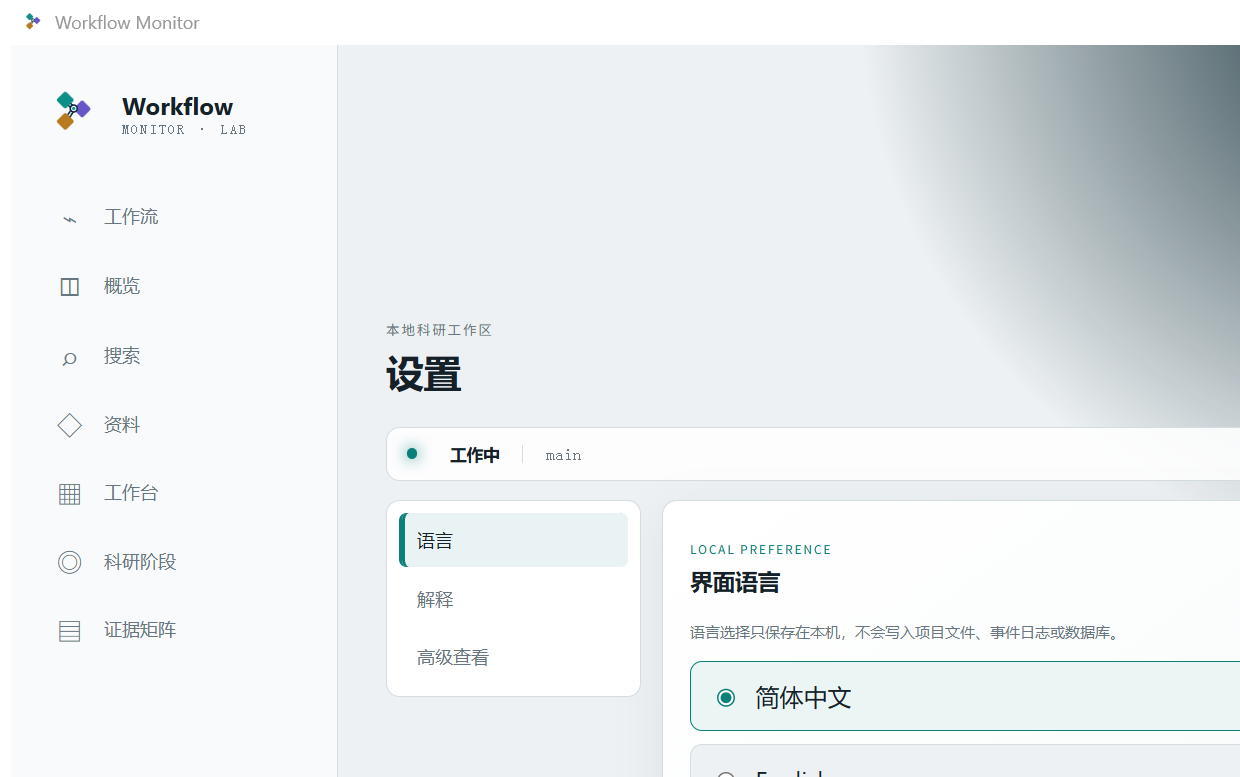
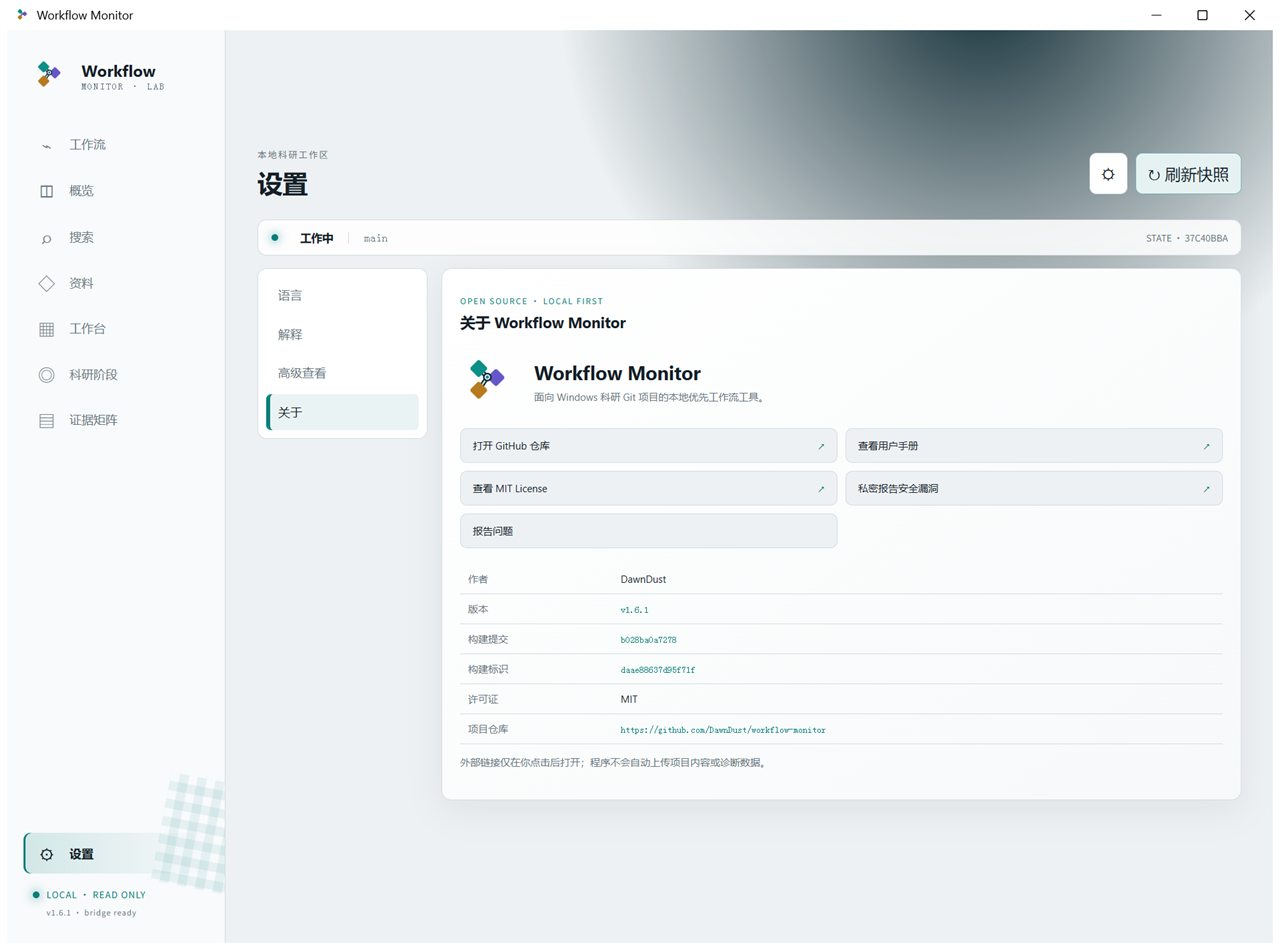
Add About page and prepare v1.6.1
Adds bilingual product identity, support links, version/build details, documentation, screenshot, and v1.6.1 release preparation.

diff --git a/project_hooks/ui/web/assets/app.js b/project_hooks/ui/web/assets/app.js
@@ -7,7 +7,8 @@ const pages = [
   ["research-stages","◎","科研阶段","Research stages"],
   ["evidence-matrix","▤","证据矩阵","Evidence matrix"],
 ];
-const state = {page:"overview",settingsSection:"language",language:loadLanguage(),snapshot:null,token:null,draftQuery:"",committedQuery:"",selectedKind:"all",searchPage:1,selectedResourceKind:null,resourcePage:1,selectedWorkbenchKind:"all",selectedWorkbenchPurposes:new Set(),selectedWorkbenchIds:new Set(),eventPage:1,searchComposing:false,pendingSearchRender:false,glossaryOpen:new Set(),advancedOpen:new Set(),stageOpen:new Set(),stageExpansionInitialized:false,records:new Map()};
+const state = {page:"overview",settingsSection:"language",language:loadLanguage(),snapshot:null,token:null,runtime:{version:"",build_identity:{}},draftQuery:"",committedQuery:"",selectedKind:"all",searchPage:1,selectedResourceKind:null,resourcePage:1,selectedWorkbenchKind:"all",selectedWorkbenchPurposes:new Set(),selectedWorkbenchIds:new Set(),eventPage:1,searchComposing:false,pendingSearchRender:false,glossaryOpen:new Set(),advancedOpen:new Set(),stageOpen:new Set(),stageExpansionInitialized:false,records:new Map()};
+const productLinks={repository:"https://github.com/DawnDust/workflow-monitor",manual:"https://dawndust.github.io/workflow-monitor/",license:"https://github.com/DawnDust/workflow-monitor/blob/main/LICENSE",security:"https://github.com/DawnDust/workflow-monitor/security/advisories/new"};
 const $ = q => document.querySelector(q), bridge = () => window.pywebview?.api;
 const l = (zh,en) => state.language === "en" ? en : zh;
 const pageLabel = page => state.language === "en" ? page[3] : page[2];
@@ -63,7 +64,9 @@ function fillDisclosure(node,s,force=false){const id=node.dataset.lazy,body=node
 const advancedDependencies={runtime:new Set(["branch","health","classification","active_task_warning","software_delivery"]),actions:new Set(["action_matrix"]),diagnostics:new Set(["diagnostics"]),events:new Set(["events"])};
 function updateAdvanced(s,changed=[],force=false){const issues=s.diagnostics?.issues||s.diagnostics?.active||[],counts={runtime:l("按需","On demand"),actions:`${(s.action_matrix?.actions||[]).length} ${l("项","items")}`,diagnostics:`${issues.length} ${l("个问题","issues")}`,events:`${(s.events||[]).length} ${l("条","records")}`},scrollY=window.scrollY;document.querySelectorAll("details[data-lazy]").forEach(node=>{node.querySelector("summary em").textContent=counts[node.dataset.lazy];const affected=force||changed.some(key=>advancedDependencies[node.dataset.lazy]?.has(key));if(node.open&&affected)fillDisclosure(node,s,true);});requestAnimationFrame(()=>window.scrollTo(0,scrollY));}
 function languageSettings(){return panel(l("界面语言","Interface language"),`<p class="muted">${l("语言选择只保存在本机，不会写入项目文件、事件日志或数据库。","The language preference is stored only on this device and never written to project files, events, or the database.")}</p><div class="language-options" role="radiogroup" aria-label="${l("界面语言","Interface language")}"><label><input type="radio" name="language" value="zh-CN" ${state.language==="zh-CN"?"checked":""}>简体中文</label><label><input type="radio" name="language" value="en" ${state.language==="en"?"checked":""}>English</label></div>`,"LOCAL PREFERENCE");}
-function settings(s){const sections=[["language",l("语言","Language")],["explain",l("解释","Glossary")],["advanced",l("高级查看","Advanced")]],content=state.settingsSection==="language"?languageSettings():state.settingsSection==="explain"?explain(s):advanced(s);return `<div class="settings-layout"><nav class="settings-nav" aria-label="${l("设置分类","Settings sections")}">${sections.map(([id,label])=>`<button data-settings-section="${id}" class="${state.settingsSection===id?"active":""}" aria-current="${state.settingsSection===id?"page":"false"}">${label}</button>`).join("")}</nav><section>${content}</section></div>`;}
+function productLink(key,label){return `<a class="about-link" href="${productLinks[key]}" target="_blank" rel="noopener noreferrer">${esc(label)} <span aria-hidden="true">↗</span></a>`;}
+function aboutSettings(){const identity=state.runtime.build_identity||{},commit=String(identity.source_commit||"").slice(0,12)||l("未知","Unknown"),version=state.runtime.version||l("未知","Unknown"),build=identity.build_id||l("未知","Unknown");return panel(l("关于 Workflow Monitor","About Workflow Monitor"),`<div class="about-hero"><img src="workflow-monitor-mark.svg" alt=""><div><h3>Workflow Monitor</h3><p>${l("面向 Windows 科研 Git 项目的本地优先工作流工具。","A local-first workflow tool for research Git projects on Windows.")}</p></div></div><div class="about-links">${productLink("repository",l("打开 GitHub 仓库","Open GitHub repository"))}${productLink("manual",l("查看用户手册","Read the user manual"))}${productLink("license",l("查看 MIT License","View MIT License"))}${productLink("security",l("私密报告安全漏洞","Privately report a vulnerability"))}<button id="about-report-bug">${l("报告问题","Report an issue")}</button></div><dl class="details about-details"><dt>${l("作者","Author")}</dt><dd>DawnDust</dd><dt>${l("版本","Version")}</dt><dd><code>v${esc(version)}</code></dd><dt>${l("构建提交","Build commit")}</dt><dd><code>${esc(commit)}</code></dd><dt>${l("构建标识","Build ID")}</dt><dd><code>${esc(build)}</code></dd><dt>${l("许可证","License")}</dt><dd>MIT</dd><dt>${l("项目仓库","Repository")}</dt><dd><code>${esc(productLinks.repository)}</code></dd></dl><p class="muted">${l("外部链接仅在你点击后打开；程序不会自动上传项目内容或诊断数据。","External links open only after you click them. The application never uploads project content or diagnostic data automatically.")}</p>`,"OPEN SOURCE · LOCAL FIRST");}
+function settings(s){const sections=[["language",l("语言","Language")],["explain",l("解释","Glossary")],["advanced",l("高级查看","Advanced")],["about",l("关于","About")]],content=state.settingsSection==="language"?languageSettings():state.settingsSection==="explain"?explain(s):state.settingsSection==="advanced"?advanced(s):aboutSettings();return `<div class="settings-layout"><nav class="settings-nav" aria-label="${l("设置分类","Settings sections")}">${sections.map(([id,label])=>`<button data-settings-section="${id}" class="${state.settingsSection===id?"active":""}" aria-current="${state.settingsSection===id?"page":"false"}">${label}</button>`).join("")}</nav><section>${content}</section></div>`;}
 function render(){state.records.clear();const s=state.snapshot,p=pages.find(x=>x[0]===state.page);$("#page-title").textContent=state.page==="settings"?l("设置","Settings"):(p?pageLabel(p):l("概览","Overview"));if(!s){$("#content").innerHTML=`<div class="loading-card"><span></span>${l("正在准备本地只读快照…","Preparing the local read-only snapshot…")}</div>`;return;}const views={workflow,overview,search,resources,workbench,"research-stages":stageView,"evidence-matrix":matrix,settings};$("#content").innerHTML=views[state.page](s);bindDynamic(s);}
 function openDrawer(title,value){$("#drawer-body").innerHTML=`<small>DETAIL</small><h2 id="drawer-title">${esc(title)}</h2><pre>${esc(JSON.stringify(value,null,2))}</pre>`;$("#drawer").classList.remove("hidden");}
 function bindDynamic(s){
@@ -84,6 +87,7 @@ function bindDynamic(s){
   document.querySelectorAll("details[data-glossary-section]").forEach(n=>n.addEventListener("toggle",()=>{if(n.open)state.glossaryOpen.add(n.dataset.glossarySection);else state.glossaryOpen.delete(n.dataset.glossarySection);}));
   document.querySelectorAll("[data-settings-section]").forEach(n=>n.onclick=()=>{state.settingsSection=n.dataset.settingsSection;render();});
   document.querySelectorAll('input[name="language"]').forEach(n=>n.onchange=()=>{state.language=saveLanguage(n.value);applyChromeLanguage();renderNavigation();if(state.snapshot)statusStrip(state.snapshot);render();});
+  $("#about-report-bug")?.addEventListener("click",async()=>{const r=await invoke("report_bug");notice(r.ok&&r.data.opened?l("已打开问题反馈页面","Opened the issue report page"):l("无法打开问题反馈页面","Could not open the issue report page"),r.ok?"info":"error")});
   document.querySelectorAll(".glossary-item").forEach(btn=>btn.onclick=()=>{const [section,code]=btn.dataset.glossary.split(":");const item=(s.status_glossary||[]).find(x=>x.section===section)?.items.find(x=>x.code===code),translated=glossaryText(section,item,state.language);openDrawer(`${code}｜${translated.meaning}`,state.language==="en"?{Category:translated.section,Status:code,Meaning:translated.meaning,Impact:translated.implication,"Safe next step":translated.nextStep}:{类别:section,英文状态:code,中文含义:item.meaning,意味着什么:item.implication,安全下一步:item.next_step});});
   document.querySelectorAll("details[data-stage-id]").forEach(n=>n.addEventListener("toggle",()=>{if(n.open)state.stageOpen.add(n.dataset.stageId);else state.stageOpen.delete(n.dataset.stageId);}));
   document.querySelectorAll("details[data-lazy]").forEach(n=>{if(!n.dataset.bound){n.dataset.bound="1";n.addEventListener("toggle",()=>{if(n.open){state.advancedOpen.add(n.dataset.lazy);fillDisclosure(n,state.snapshot);}else state.advancedOpen.delete(n.dataset.lazy);});}if(n.open)fillDisclosure(n,s);});
@@ -99,5 +103,5 @@ function bindDynamic(s){
 }
 const pageSections={workflow:new Set(["action_matrix","context","attempt"]),overview:new Set(["context","health","attempts","research","catalog_items","catalog_relations"]),search:new Set(["search_index"]),resources:new Set(["resource_directories","catalog_items"]),workbench:new Set(["workbench_items"]),"research-stages":new Set(["research"]),settings:new Set(["status_glossary","branch","health","classification","active_task_warning","software_delivery","action_matrix","diagnostics","events"])};
 async function refresh(force=false){$("#refresh-button").disabled=true;try{const r=await invoke("refresh",state.token,force),changed=r.data?.changed_sections||[],hasSnapshot=Boolean(r.data?.snapshot);if(hasSnapshot)state.snapshot=r.data.snapshot;if(r.data?.state_token)state.token=r.data.state_token;if(!r.ok)notice(l(`刷新失败，继续显示最后快照：${r.error.message}`,`Refresh failed; showing the last snapshot: ${r.error.message}`),"error");statusStrip(state.snapshot);const relevant=force||(hasSnapshot&&changed.some(x=>(pageSections[state.page]||new Set()).has(x)));if(state.page==="settings"&&state.settingsSection==="advanced"&&relevant)updateAdvanced(state.snapshot,changed,force);else if(relevant&&state.page==="search"&&(state.searchComposing||document.activeElement?.id==="search-input")){state.pendingSearchRender=true;}else if(relevant)render();}catch(e){notice(e.message,"error")}finally{$("#refresh-button").disabled=false;}}
-function initialize(){const requested=new URLSearchParams(location.hash.slice(1)).get("theme"),preferred=matchMedia("(prefers-color-scheme: light)").matches?"light":"dark";$("#app").dataset.theme=["light","dark"].includes(requested)?requested:preferred;applyChromeLanguage();renderNavigation();render();$("#settings-button").onclick=()=>{state.page="settings";renderNavigation();render();};$("#refresh-button").onclick=()=>refresh(true);$("#theme-toggle").onclick=()=>{const a=$("#app");a.dataset.theme=a.dataset.theme==="dark"?"light":"dark"};$("#drawer-close").onclick=()=>$("#drawer").classList.add("hidden");document.addEventListener("keydown",e=>{if(e.key==="Escape")$("#drawer").classList.add("hidden")});window.addEventListener("pywebviewready",async()=>{const ready=await invoke("ready");$("#runtime-version").textContent=`v${ready.data.version} · bridge ready`;await refresh(true);if(ready.data.refresh_seconds>0)setInterval(()=>refresh(false),ready.data.refresh_seconds*1000);});}
+function initialize(){const requested=new URLSearchParams(location.hash.slice(1)).get("theme"),preferred=matchMedia("(prefers-color-scheme: light)").matches?"light":"dark";$("#app").dataset.theme=["light","dark"].includes(requested)?requested:preferred;applyChromeLanguage();renderNavigation();render();$("#settings-button").onclick=()=>{state.page="settings";renderNavigation();render();};$("#refresh-button").onclick=()=>refresh(true);$("#theme-toggle").onclick=()=>{const a=$("#app");a.dataset.theme=a.dataset.theme==="dark"?"light":"dark"};$("#drawer-close").onclick=()=>$("#drawer").classList.add("hidden");document.addEventListener("keydown",e=>{if(e.key==="Escape")$("#drawer").classList.add("hidden")});window.addEventListener("pywebviewready",async()=>{const ready=await invoke("ready");state.runtime=ready.data||state.runtime;$("#runtime-version").textContent=`v${ready.data.version} · bridge ready`;await refresh(true);if(ready.data.refresh_seconds>0)setInterval(()=>refresh(false),ready.data.refresh_seconds*1000);});}
 initialize();

diff --git a/project_hooks/ui/web/assets/settings.css b/project_hooks/ui/web/assets/settings.css
@@ -12,5 +12,6 @@
 .language-options label{display:flex;align-items:center;gap:10px;border:1px solid var(--line);border-radius:8px;background:var(--bg);padding:12px;cursor:pointer}
 .language-options label:has(input:checked){border-color:var(--cyan);background:color-mix(in srgb,var(--cyan) 8%,var(--panel))}
 .language-options input{accent-color:var(--cyan)}
+.about-hero{display:flex;align-items:center;gap:16px;padding:4px 0 18px}.about-hero img{width:58px;height:58px}.about-hero h3{font-size:19px;margin:0 0 5px}.about-hero p{color:var(--muted);font-size:10px;margin:0}.about-details{margin:16px 0 0}.about-details code{font-size:9px;color:var(--cyan)}.about-links{display:grid;grid-template-columns:repeat(2,minmax(0,1fr));gap:8px}.about-link,.about-links button{border:1px solid var(--line);border-radius:7px;background:var(--bg);color:var(--text);padding:10px 12px;text-decoration:none;font-size:10px;cursor:pointer;text-align:left}.about-link:hover,.about-links button:hover{border-color:var(--cyan);background:color-mix(in srgb,var(--cyan) 7%,var(--panel))}.about-link span{color:var(--cyan);float:right}
 @media(max-width:1050px){.settings-button b{display:none}.settings-button{justify-content:center;padding:9px;font-size:0}.settings-button span{font-size:17px}.settings-nav button{justify-content:flex-start;padding:10px;font-size:12px}}
-@media(max-width:720px){.settings-button{margin-top:0;flex:0 0 auto}.settings-layout{display:block}.settings-nav{position:static;display:flex;overflow:auto;margin-bottom:11px}.settings-nav button{white-space:nowrap;border-left:0;border-bottom:2px solid transparent}.settings-nav button.active{border-left-color:transparent;border-bottom-color:var(--cyan)}}
+@media(max-width:720px){.settings-button{margin-top:0;flex:0 0 auto}.settings-layout{display:block}.settings-nav{position:static;display:flex;overflow:auto;margin-bottom:11px}.settings-nav button{white-space:nowrap;border-left:0;border-bottom:2px solid transparent}.settings-nav button.active{border-left-color:transparent;border-bottom-color:var(--cyan)}.about-links{grid-template-columns:1fr}}

diff --git a/tests/integration/web/test_dashboard.py b/tests/integration/web/test_dashboard.py
@@ -236,7 +236,10 @@ class WebDashboardBridgeTests(unittest.TestCase):
 
     def test_refresh_contract_and_unchanged_token(self) -> None:
         bridge = WebDashboardBridge(FakeProvider(self.root), refresh_seconds=2.5)
-        self.assertEqual(bridge.ready()["data"]["refresh_seconds"], 2.5)
+        ready = bridge.ready()["data"]
+        self.assertEqual(ready["refresh_seconds"], 2.5)
+        self.assertEqual(ready["version"], "1.6.1")
+        self.assertIn("source_commit", ready["build_identity"])
         first = bridge.bootstrap()
         self.assertTrue(first["ok"])
         token = first["data"]["state_token"]
@@ -401,6 +404,14 @@ class WebDashboardIntegrationTests(unittest.TestCase):
         self.assertIn('settingsSection:"language"', script)
         self.assertIn('data-settings-section', script)
         self.assertIn('name="language"', script)
+        self.assertIn('["about",l("关于","About")]', script)
+        self.assertIn("DawnDust", script)
+        self.assertIn("https://github.com/DawnDust/workflow-monitor", script)
+        self.assertIn("https://dawndust.github.io/workflow-monitor/", script)
+        self.assertIn("security/advisories/new", script)
+        self.assertIn('target="_blank" rel="noopener noreferrer"', script)
+        self.assertIn('id="about-report-bug"', script)
+        self.assertIn("build_identity", script)
         self.assertIn("saveLanguage", script)
         self.assertIn("esc(item.summary)", script)
         self.assertNotIn("knownStatus", script)

diff --git a/project_hooks/ui/web/bridge.py b/project_hooks/ui/web/bridge.py
@@ -18,6 +18,7 @@ from ...application.workbench_service import WorkbenchError, render_workbench_co
 from ...infrastructure.system.dashboard_actions import export_bundle, report_bug as open_dashboard_bug
 from ...infrastructure.system.diagnostics import diagnostics_status
 from ...infrastructure.system.external_navigation import open_directory, reveal_file
+from ...infrastructure.git.build_identity import build_identity
 from .projections import web_snapshot
 from ...infrastructure.system.resource_layout import RESOURCE_DIRECTORIES
 
@@ -112,6 +113,7 @@ class WebDashboardBridge:
                 pass
         return self._ok({
             "bridge": "ready", "version": __version__,
+            "build_identity": build_identity(),
             "refresh_seconds": self.refresh_seconds,
         })
 

diff --git a/tests/distribution/test_public_release.py b/tests/distribution/test_public_release.py
@@ -85,7 +85,7 @@ class PublicReleaseSurfaceTests(unittest.TestCase):
         self.assertNotIn("project-maintenance-template", combined)
         headings = re.findall(r"^## (.+)$", (ROOT / "CHANGELOG.md").read_text(encoding="utf-8"), re.M)
         self.assertEqual(headings.count("Unreleased"), 1)
-        self.assertIn("1.6.0", headings)
+        self.assertIn("1.6.1", headings)
 
 
 if __name__ == "__main__":

diff --git a/project_hooks/application/action_service.py b/project_hooks/application/action_service.py
@@ -28,7 +28,7 @@ class WorkflowActionService:
         failure_recorder: FailureRecorder,
         failure_formatter: Callable[[dict[str, Any]], str],
         execution_mode_provider: Callable[[], str],
-        application_version: str = "1.6.0",
+        application_version: str = "1.6.1",
         schema_version: int = 3,
     ):
         self.project_root = project_root.resolve()

diff --git a/project_hooks/__init__.py b/project_hooks/__init__.py
@@ -1,5 +1,5 @@
 """Project-local Windows maintenance workflow application."""
 
-__version__ = "1.6.0"
+__version__ = "1.6.1"
 DISPLAY_NAME = "Workflow Monitor"
 EXECUTABLE_NAME = "workflow-monitor.exe"

diff --git a/docs/en/workbench.md b/docs/en/workbench.md
@@ -10,11 +10,13 @@ The workbench is an observation and navigation surface. Lifecycle writes are per
 - **Resources:** navigates the seven standard resource directories and lazily loads registered entries.
 - **Workbench:** indexes user-created or imported Markdown tools, instructions, methods, workflows, checklists, references, and templates.
 - **Research stages:** groups the main goal, completed work, related attempts, and resources by stage.
-- **Settings:** language, status explanations, and advanced delivery or diagnostic views.
+- **Settings:** language, status explanations, advanced delivery or diagnostic views, and product information.
 
 ## Settings
 
-**Language** changes local system text only. **Explanations** describes known workflow and Git states. **Advanced view** preserves version status, action availability, diagnostics, and raw events; expensive sections load only when expanded.
+**Language** changes local system text only. **Explanations** describes known workflow and Git states. **Advanced view** preserves version status, action availability, diagnostics, and raw events; expensive sections load only when expanded. **About** identifies DawnDust as the author and provides the official repository, manual, version, build commit, MIT License, issue, and private vulnerability-reporting links.
+
+External links open only after an explicit click. Project content and diagnostic data are never uploaded automatically.
 
 ![Workflow Monitor Settings page](../assets/workflow-monitor-settings.png)
 

diff --git a/docs/zh/workbench.md b/docs/zh/workbench.md
@@ -10,11 +10,13 @@
 - **资料：**导航七个标准资料目录，并在展开后按需读取登记条目。
 - **工作台：**索引用户创建或导入的 Markdown 工具、说明、方法、流程、清单、参考和模板。
 - **科研阶段：**按阶段组织主目标、完成工作、相关探索和资料。
-- **设置：**语言、状态解释，以及高级交付和诊断视图。
+- **设置：**语言、状态解释、高级交付和诊断视图，以及产品信息。
 
 ## 设置
 
-“语言”只改变本机系统文字。“解释”说明已知工作流和 Git 状态。“高级查看”保留版本状态、动作可用性、诊断和原始事件；成本较高的内容仅在展开时加载。
+“语言”只改变本机系统文字。“解释”说明已知工作流和 Git 状态。“高级查看”保留版本状态、动作可用性、诊断和原始事件；成本较高的内容仅在展开时加载。“关于”注明作者 DawnDust，并提供官方仓库、用户手册、版本、构建提交、MIT License、问题反馈和私密漏洞报告入口。
+
+外部链接只有在用户明确点击后才会打开；项目内容和诊断数据不会自动上传。
 
 ![Workflow Monitor 设置页](../assets/workflow-monitor-settings.png)
 

diff --git a/CHANGELOG.md b/CHANGELOG.md
@@ -4,6 +4,11 @@
 
 No changes yet.
 
+## 1.6.1
+
+- Added a bilingual About section to Settings with author attribution, canonical repository and manual links, application version, build commit, MIT License, issue reporting, and private vulnerability reporting.
+- Kept external navigation user-initiated and preserved the local-only privacy boundary for project content and diagnostic data.
+
 ## 1.6.0
 
 - Replaced the unrelated crafting-table icon with the original Workflow Beacon identity: three connected workflow nodes and a local status beacon, delivered as reproducible SVG, PNG, multi-size Windows ICO, favicon, wordmark, and social preview assets.
